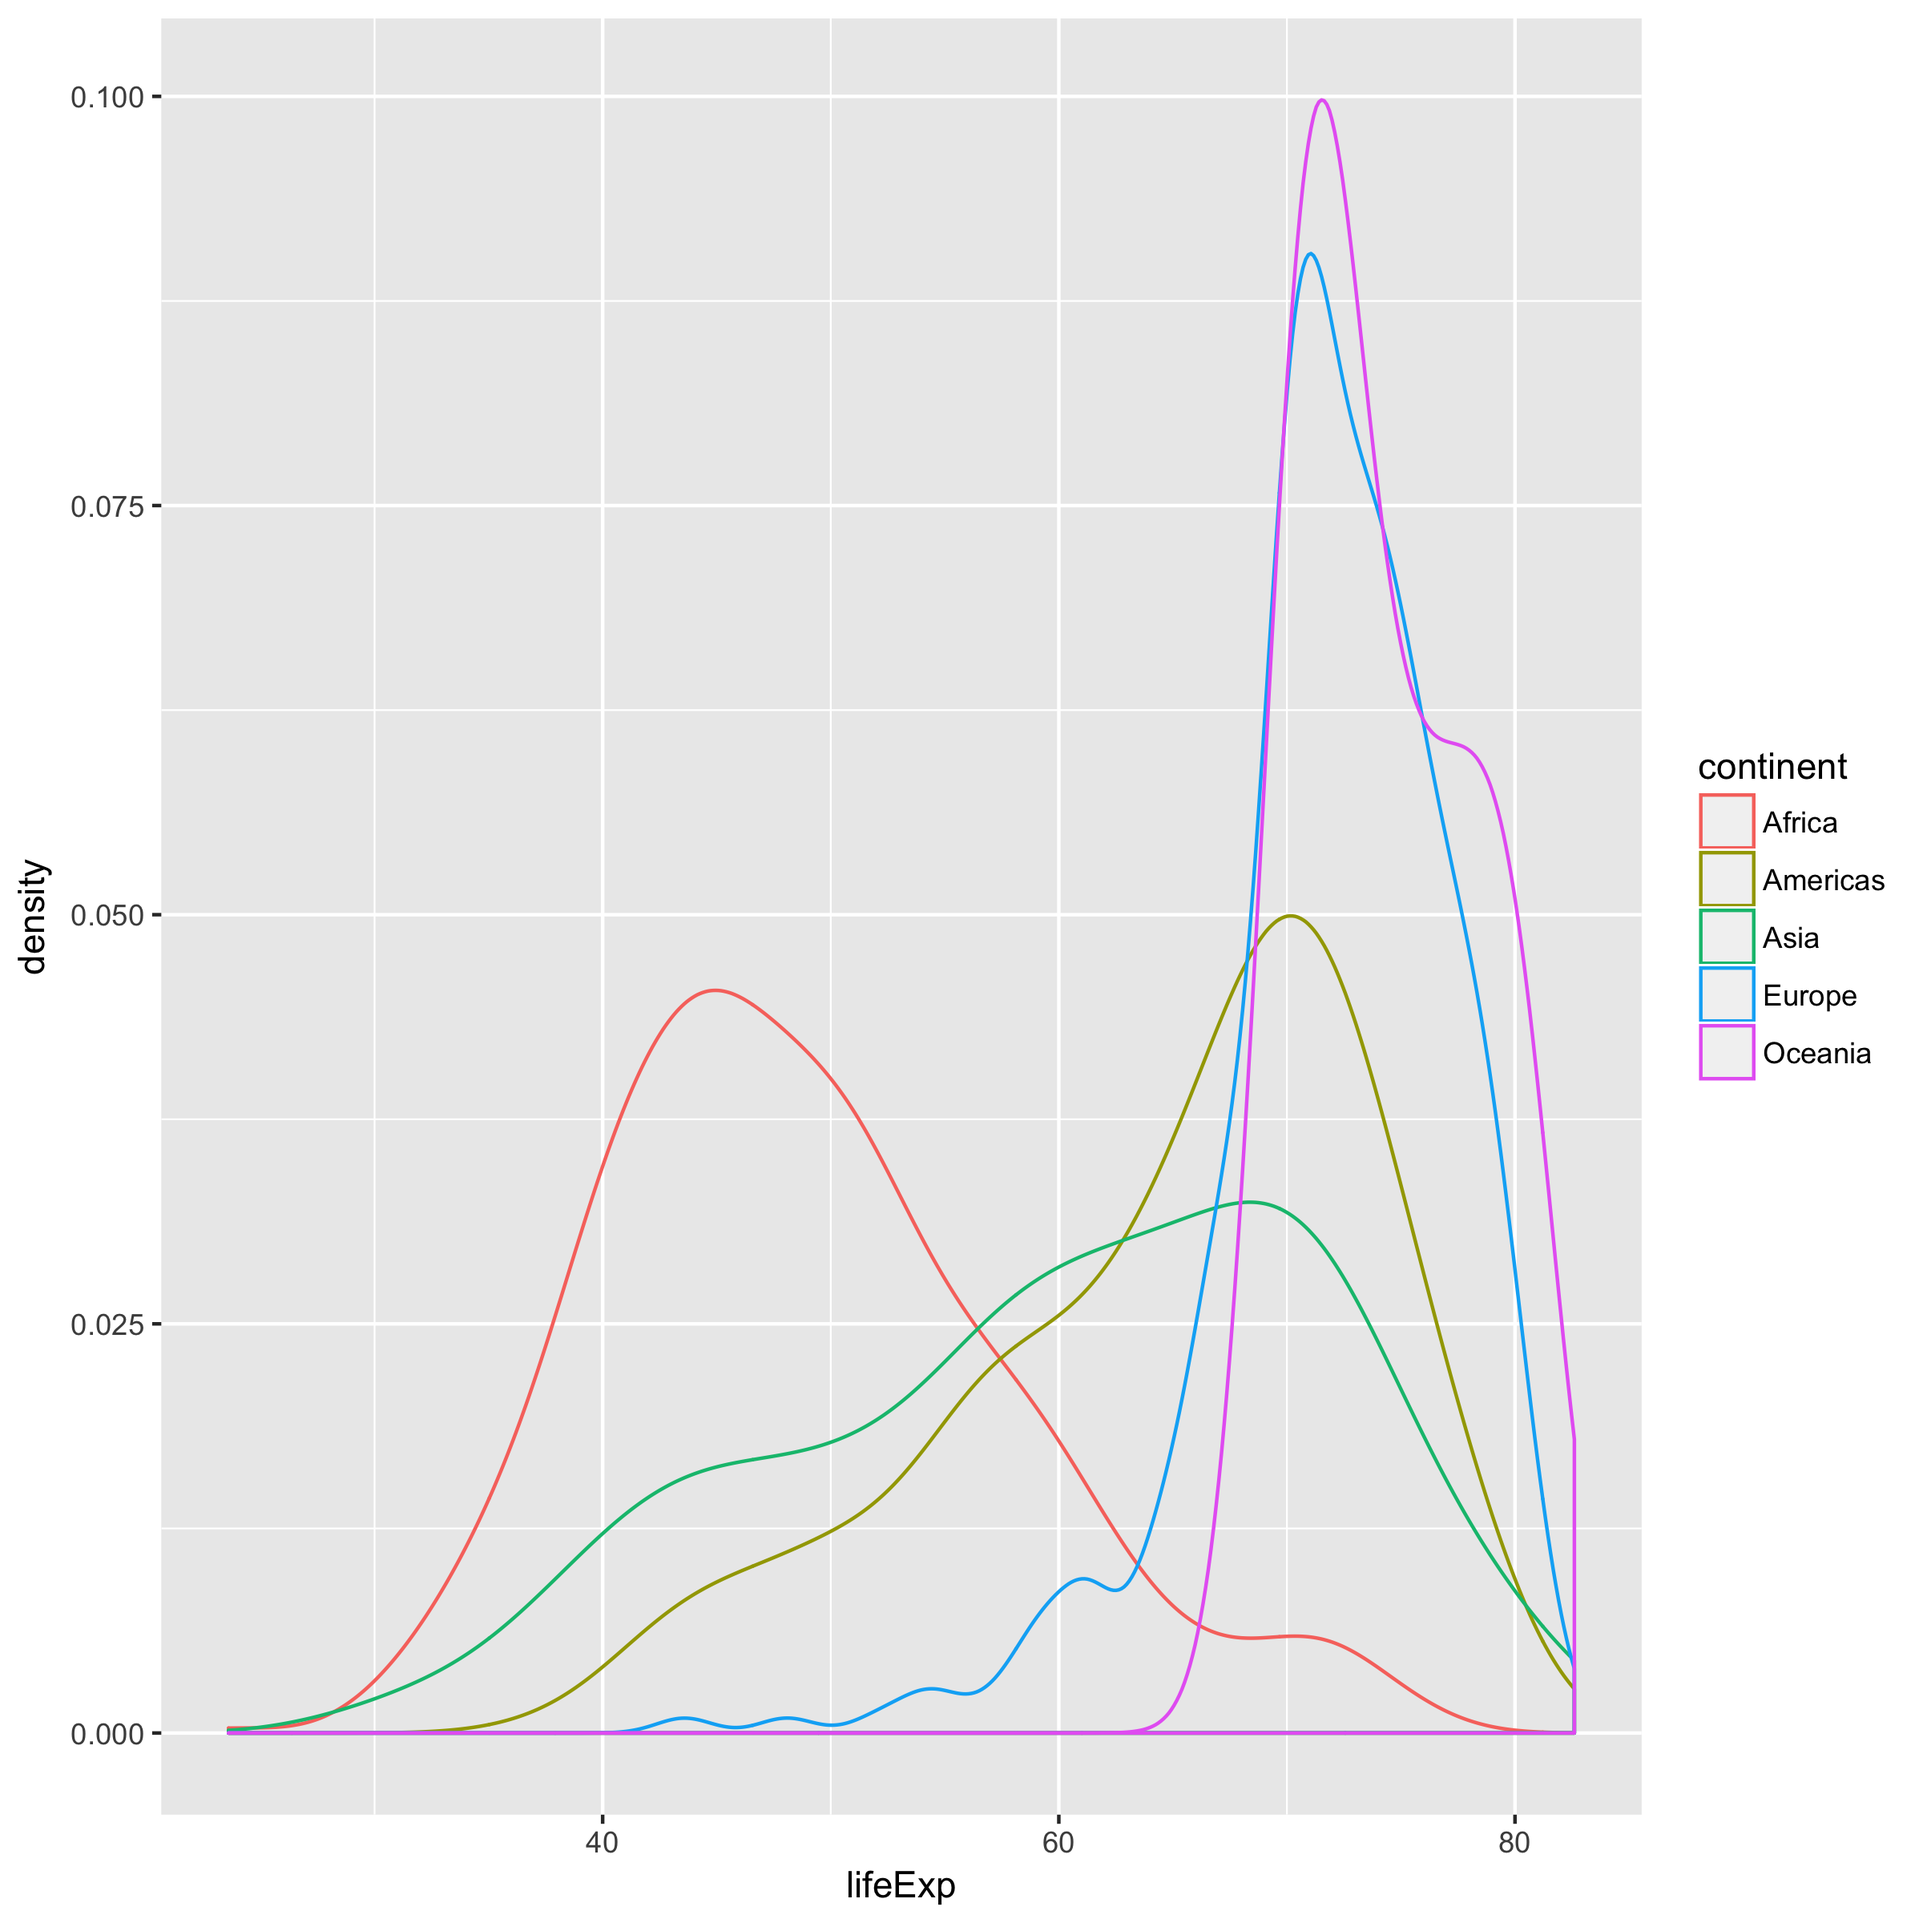
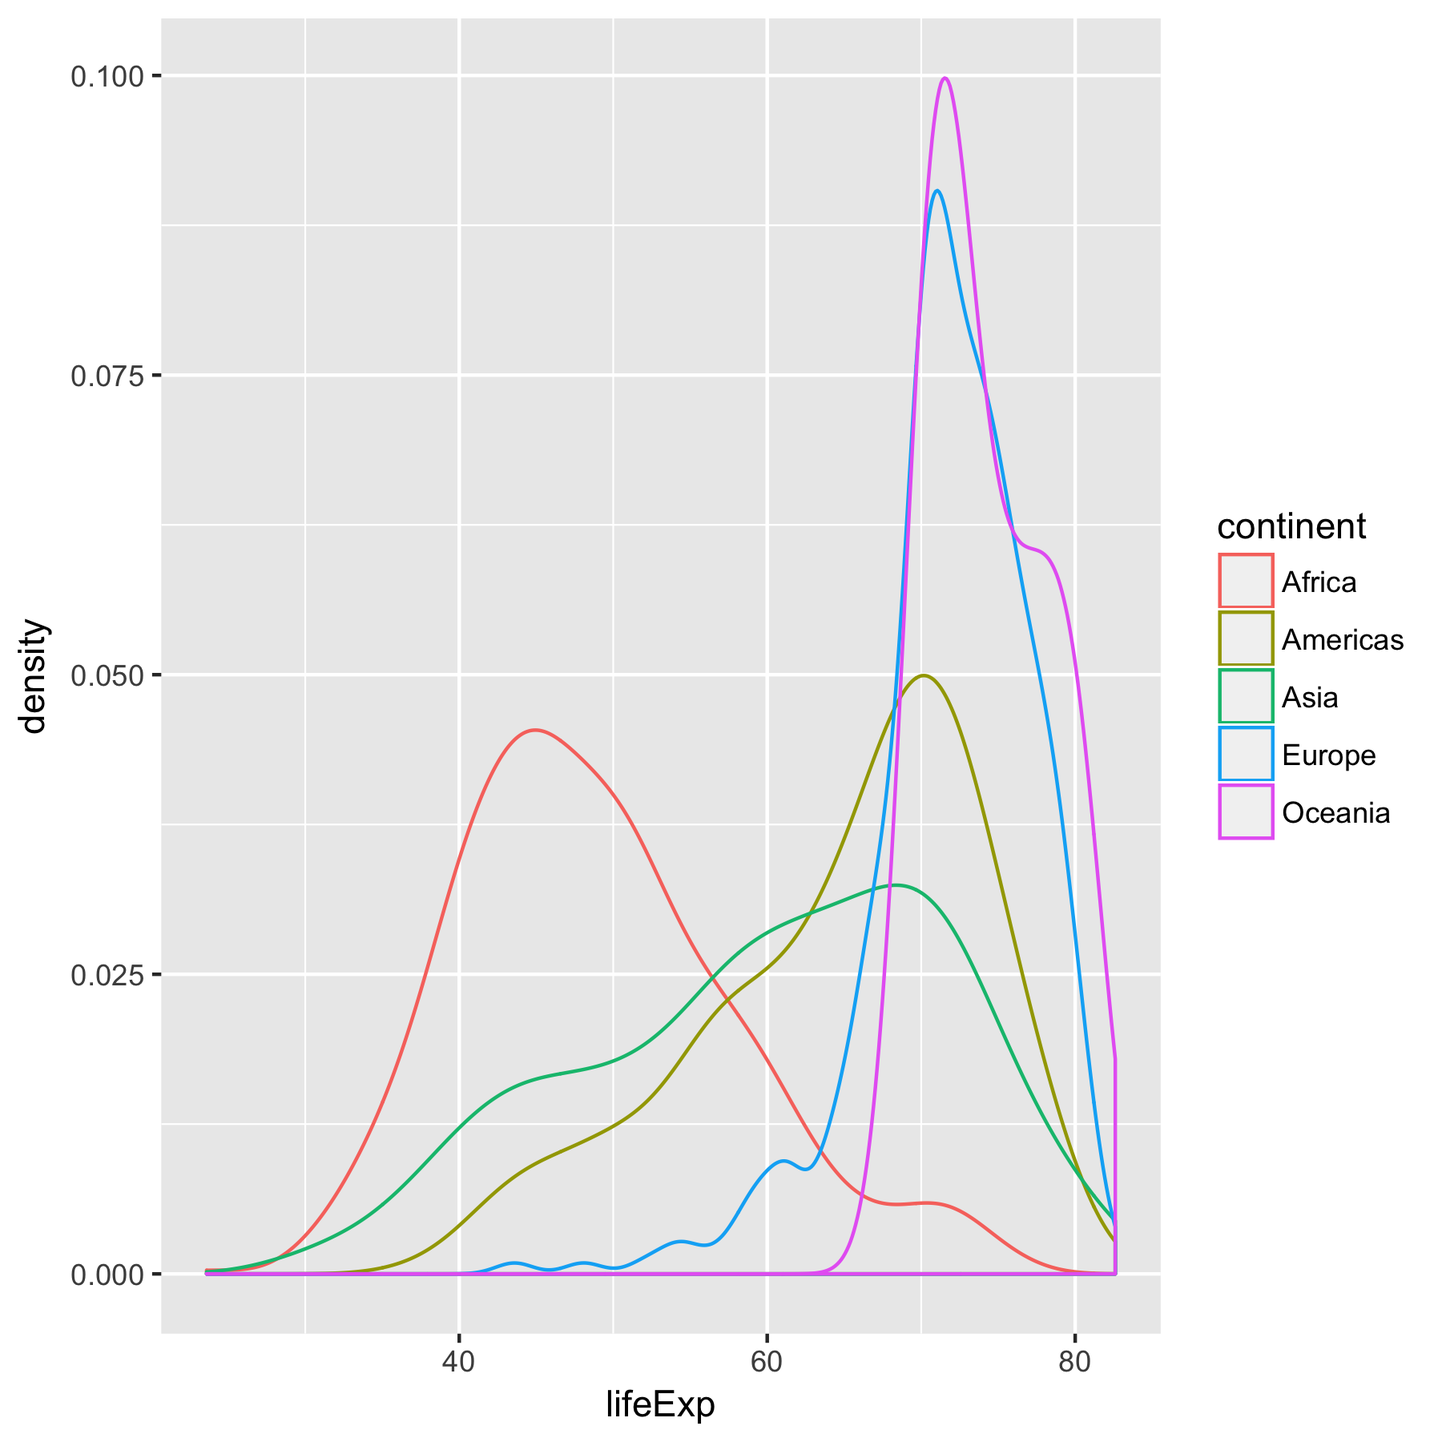
edit plot

diff --git a/hw05/hw05.md b/hw05/hw05.md
@@ -2399,7 +2399,7 @@ multiplot <- function(..., plotlist=NULL, file, cols=1, layout=NULL) {
 }
 
 
-multiplot(p1, p2, cols = 1)
+multiplot(p1, p2, cols = 2)
 ```
 
     ## Loading required package: grid
@@ -2415,10 +2415,10 @@ Writing figures to file
 
 ``` r
 ggsave("myplot2.png", 
-       device =  "png",width = 8, height = 8)
+       device =  "png",width = 6, height = 6)
 
 ggsave("myplot1.png", plot=p1,
-       device =  "png",width = 8, height = 8)
+       device =  "png",width = 6, height = 6)
 ```
 
 **Note**: Explicit provision of the plot object p2 is not necessary since p2 is the last plot displayed. However, it is necessary for p1 because p1 is a plot we made earlier.

diff --git a/hw05/README.md b/hw05/README.md
@@ -11,8 +11,6 @@ October 12, 2017
 
 * This tutorial about the [forcats package](https://blog.rstudio.com/2016/08/31/forcats-0-1-0/) is really helpful.
 
-* In the section *Visualization design*, if I render the plots side by side, the plots become very narrow and parts of the plots will be lost. So I rendered them on top of each other.
-
 * I am a little bit confused about what we should do in the *I want to do more* section, I did the task based on my own understanding of the problem.
 
 * I used the funcion `multiplot()` on [this website](http://stat545.com/block020_multiple-plots-on-a-page.html) to render two of my plots together.
